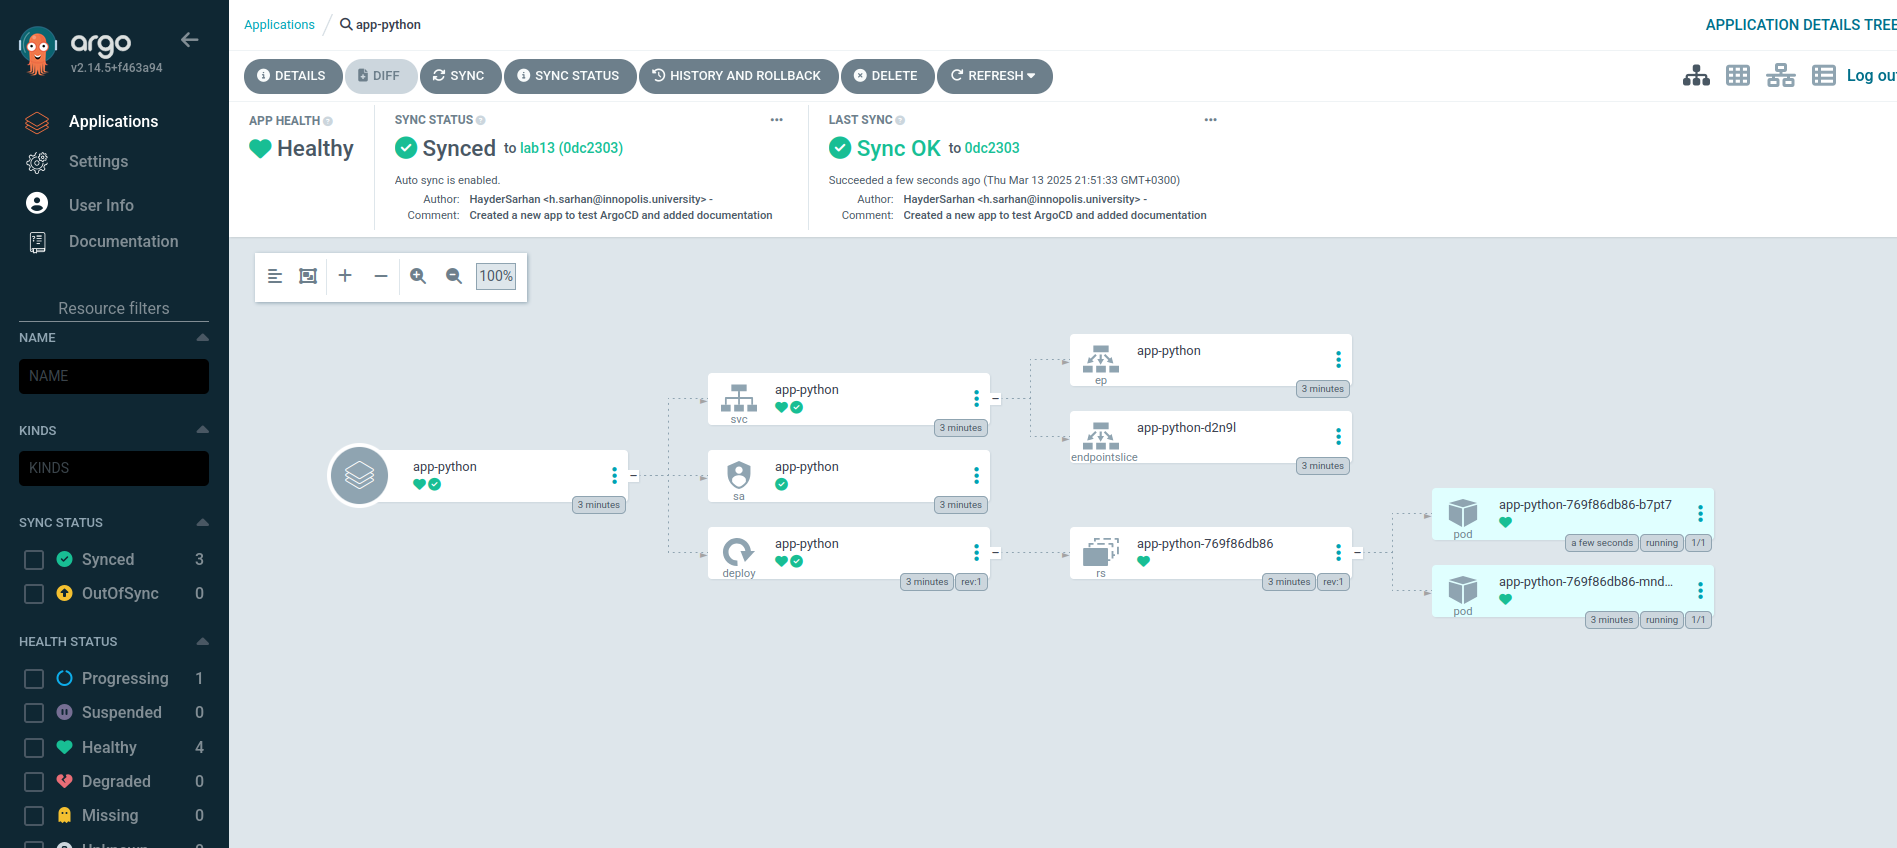
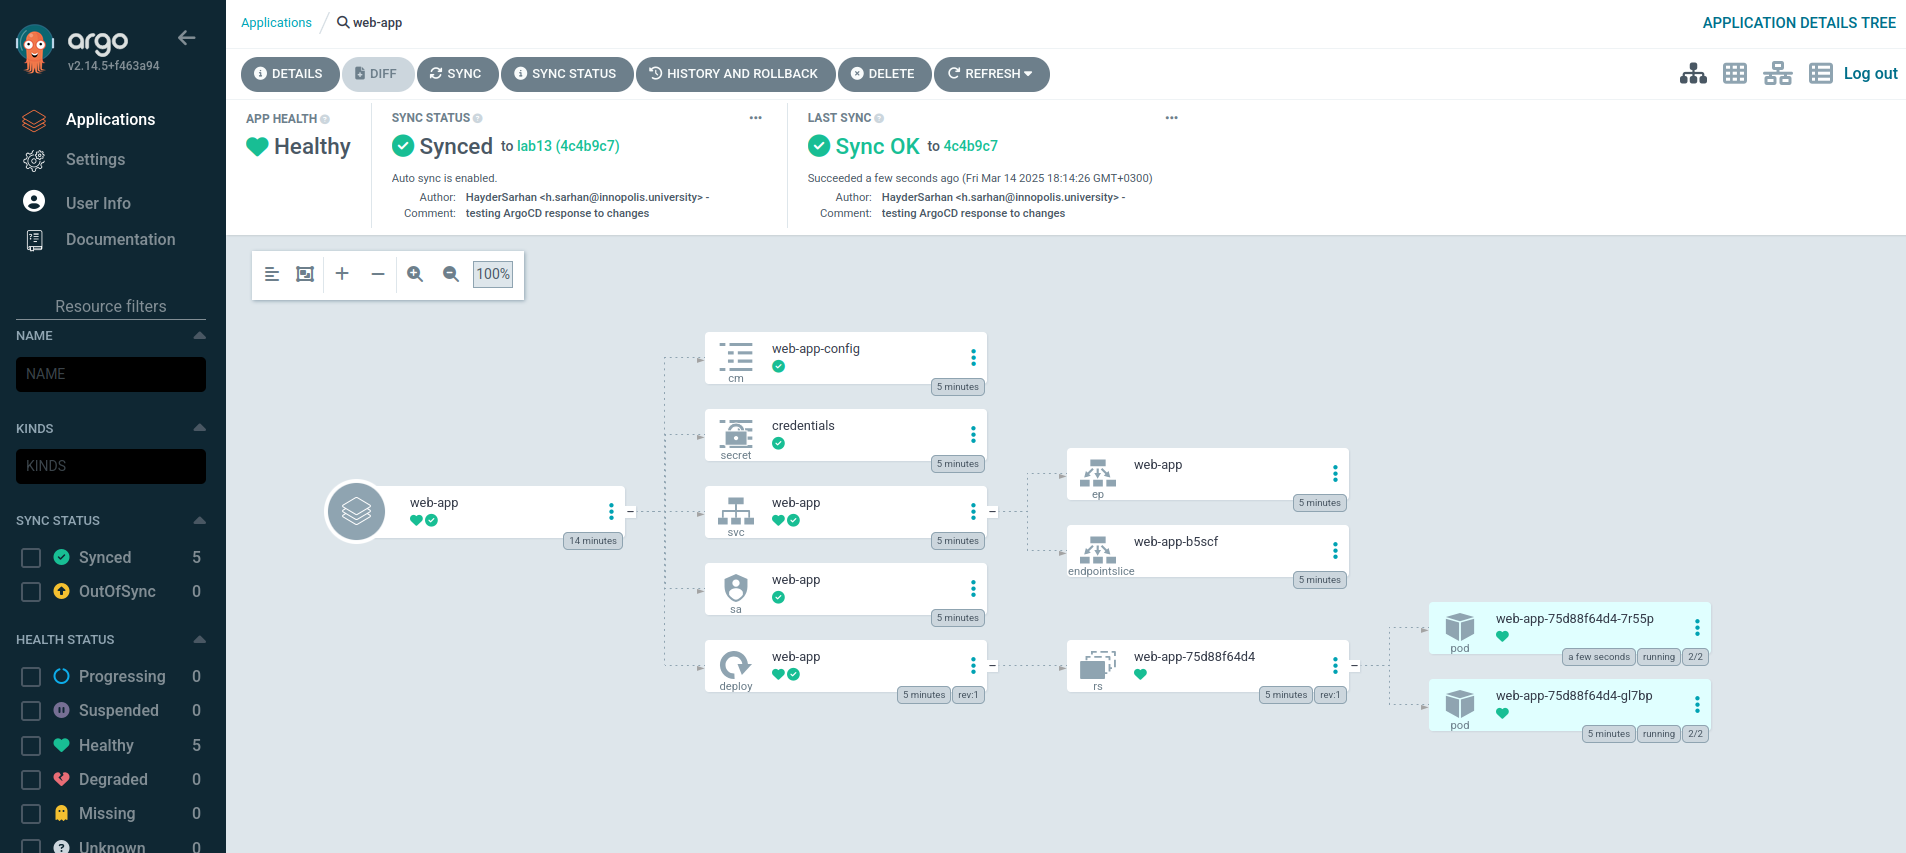
added multi-environment values files

diff --git a/k8s/13.md b/k8s/13.md
@@ -23,3 +23,37 @@ To add an app an ArgoCD manifest was created `ArgoCD/argocd-python-app.yaml`
 After making changes to our app:
 
 ![ArgoCD_changes](images/ArgoCD_changes.png)
+
+```bash
+$ argocd app get web-app
+Name:               argocd/web-app
+Project:            default
+Server:             https://kubernetes.default.svc
+Namespace:          default
+URL:                https://argocd.example.com/applications/web-app
+Source:
+- Repo:             https://github.com/HayderSarhan/S25-core-course-labs.git
+  Target:           lab13
+  Path:             k8s/web-app
+  Helm Values:      values.yaml,secrets.yaml
+SyncWindow:         Sync Allowed
+Sync Policy:        Automated (Prune)
+Sync Status:        Synced to lab13 (4c4b9c7)
+Health Status:      Healthy
+
+GROUP  KIND            NAMESPACE  NAME              STATUS     HEALTH   HOOK      MESSAGE
+       Pod             default    preinstall-hook   Succeeded           PreSync   pod/preinstall-hook created
+       ServiceAccount  default    web-app           Synced                        serviceaccount/web-app unchanged
+       Secret          default    credentials       Synced                        secret/credentials unchanged
+       ConfigMap       default    web-app-config    Synced                        configmap/web-app-config unchanged
+       Service         default    web-app           Synced     Healthy            service/web-app unchanged
+apps   Deployment      default    web-app           Synced     Healthy            deployment.apps/web-app configured
+       Pod             default    postinstall-hook  Succeeded           PostSync  pod/postinstall-hook created
+```
+## Multi-Environment Deployment
+
+We create two new environments:
+- Create 2 new value files for each enviroment (`web-app/values-dev.yaml` and `web-app/values-prod.yaml`)
+- Create 2 new ArgoCD manifests (`ArgoCD/argocd-python-dev.yaml` and `ArgoCD/argocd-python-prod.yaml`)\
+I used [Create Namespace](https://argo-cd.readthedocs.io/en/stable/user-guide/sync-options/#create-namespace) to automatically create the namespaces for the environments through the ArgoCD manifests.
+
